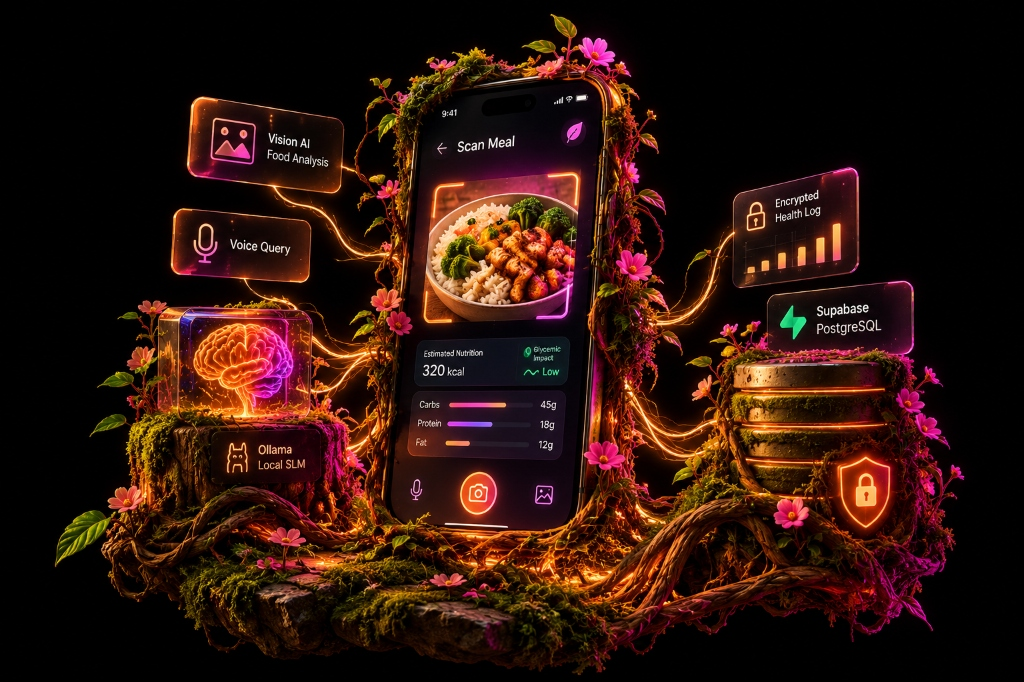
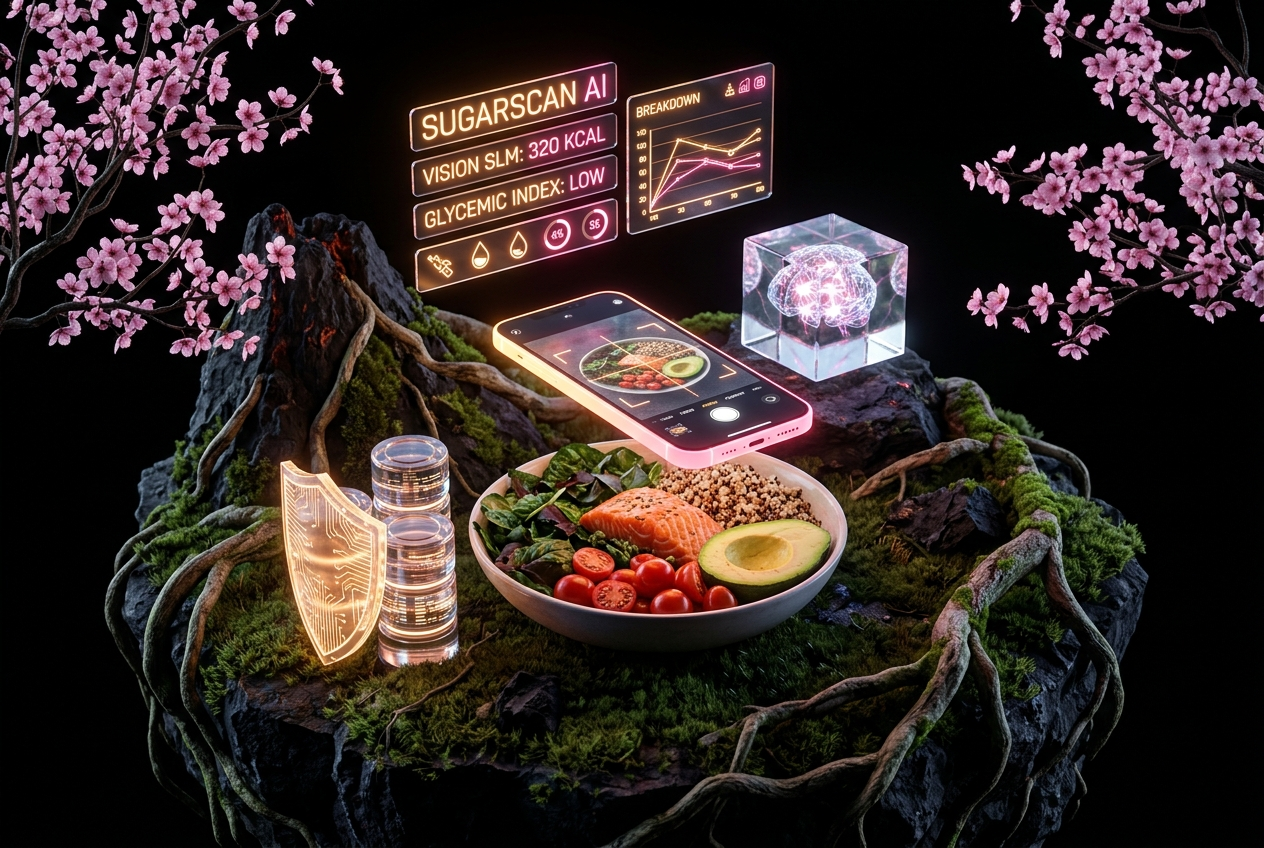
feat: implement seamless pipeline branch scroll animation and pure black floating island artwork

diff --git a/components/landing/work-section.tsx b/components/landing/work-section.tsx
@@ -571,6 +571,152 @@ export const projects: ProjectData[] = [
   }
 ];
 
+function ProjectBranchNode({
+  project,
+  index,
+  onSelect,
+}: {
+  project: ProjectData;
+  index: number;
+  onSelect: (p: ProjectData) => void;
+}) {
+  const [isRevealed, setIsRevealed] = useState(false);
+  const nodeRef = useRef<HTMLDivElement>(null);
+  const isLeft = index % 2 === 0;
+
+  useEffect(() => {
+    const observer = new IntersectionObserver(
+      ([entry]) => {
+        if (entry.isIntersecting) {
+          setIsRevealed(true);
+        }
+      },
+      { threshold: 0.12 }
+    );
+    if (nodeRef.current) observer.observe(nodeRef.current);
+    return () => observer.disconnect();
+  }, []);
+
+  return (
+    <div
+      ref={nodeRef}
+      className={`relative flex flex-col md:flex-row items-center w-full my-12 md:my-24 transition-all duration-1000 ${
+        isLeft ? "md:flex-row" : "md:flex-row-reverse"
+      }`}
+    >
+      {/* Central Pipeline Junction Node with Glowing Sakura Blossom Pulse */}
+      <div className="absolute left-6 md:left-1/2 -translate-x-1/2 z-20 flex items-center justify-center">
+        <div className={`relative flex items-center justify-center transition-all duration-700 ${
+          isRevealed ? "scale-100 opacity-100" : "scale-50 opacity-20"
+        }`}>
+          <div className="w-10 h-10 rounded-full bg-black border border-[#eca8d6]/50 flex items-center justify-center shadow-[0_0_20px_rgba(236,168,214,0.35)]">
+            <div className="w-3.5 h-3.5 rounded-full bg-[#eca8d6] animate-pulse" />
+          </div>
+          <span className="absolute -top-5 font-mono text-[9px] text-[#eca8d6] font-semibold tracking-wider bg-black px-1.5 border border-white/10 rounded-sm">
+            {project.number}
+          </span>
+        </div>
+      </div>
+
+      {/* Horizontal Branch Connecting Line (from trunk to project) */}
+      <div className={`hidden md:block absolute top-1/2 -translate-y-1/2 z-10 pointer-events-none transition-all duration-1000 ${
+        isLeft 
+          ? "left-1/2 w-28 origin-left" 
+          : "right-1/2 w-28 origin-right"
+      } ${isRevealed ? "opacity-100 scale-x-100" : "opacity-0 scale-x-0"}`}>
+        <svg className="w-full h-8 overflow-visible" viewBox="0 0 120 30" preserveAspectRatio="none">
+          <path
+            d={isLeft ? "M 0,15 L 45,15 L 60,5 L 85,25 L 120,15" : "M 120,15 L 75,15 L 60,5 L 35,25 L 0,15"}
+            fill="none"
+            stroke="#eca8d6"
+            strokeWidth="1.8"
+            strokeDasharray="4 3"
+          />
+          <circle cx={isLeft ? "120" : "0"} cy="15" r="2.5" fill="#eca8d6" />
+        </svg>
+      </div>
+
+      {/* Project Content — Seamless, NO BOX, Pure Black Floating Canvas */}
+      <div className={`w-full md:w-[calc(50%-4.5rem)] pl-16 md:pl-0 transition-all duration-1000 ${
+        isLeft ? "md:pr-10" : "md:pl-10"
+      } ${
+        isRevealed 
+          ? "opacity-100 translate-y-0" 
+          : "opacity-0 translate-y-16"
+      }`}>
+        <div className="flex flex-col lg:flex-row items-center gap-6 group">
+          {/* Floating 3D Artwork (Zero Box / Zero Border / Pure Black Floating Island) */}
+          <div className="relative w-full lg:w-3/5 aspect-[3/2] overflow-hidden rounded-lg bg-black flex-shrink-0">
+            <img
+              src={project.image}
+              alt={project.name}
+              className="w-full h-full object-contain object-center transition-all duration-700 ease-out group-hover:scale-105 group-hover:drop-shadow-[0_0_40px_rgba(236,168,214,0.35)]"
+              loading="lazy"
+            />
+            {/* Seamless edge blend so island melts into background */}
+            <div className="absolute inset-0 pointer-events-none bg-gradient-to-t from-black/60 via-transparent to-black/20" />
+          </div>
+
+          {/* Project Info (No Box, clean elegant typography) */}
+          <div className="flex-1 w-full text-left">
+            {/* Floating Pill Tag */}
+            <div className="flex items-center gap-2 mb-2">
+              <span className="px-2.5 py-0.5 rounded-full text-[9px] font-mono tracking-wider uppercase border border-[#eca8d6]/30 bg-black text-[#eca8d6]">
+                {project.number} // {project.statusBadge}
+              </span>
+              <span className="text-[10px] font-mono text-white/40 uppercase tracking-wider">
+                {project.categoryStatus.split("·")[1]?.trim() || "ENGINEERING"}
+              </span>
+            </div>
+
+            <h3 className="text-xl sm:text-2xl font-display text-white mb-2 group-hover:text-[#eca8d6] transition-colors">
+              {project.name}
+            </h3>
+
+            <p className="text-xs sm:text-[13px] text-white/60 leading-relaxed font-sans font-light mb-3">
+              {project.description}
+            </p>
+
+            {/* Tree-like zig-zag mini connector line */}
+            <div className="flex items-center gap-1 my-2 opacity-50 group-hover:opacity-90 transition-opacity">
+              <svg className="w-36 h-2 text-[#eca8d6]/50 overflow-visible" viewBox="0 0 160 8" preserveAspectRatio="none">
+                <path
+                  d="M 0,4 L 35,4 L 42,1 L 52,7 L 60,4 L 110,4 L 116,1 L 124,7 L 130,4 L 160,4"
+                  fill="none"
+                  stroke="currentColor"
+                  strokeWidth="1"
+                />
+                <circle cx="47" cy="4" r="1.5" fill="#eca8d6" />
+                <circle cx="120" cy="4" r="1.5" fill="#eca8d6" />
+              </svg>
+            </div>
+
+            {/* Tech stack badges */}
+            <div className="flex flex-wrap gap-1.5 mb-4">
+              {project.stack.map((t) => (
+                <span key={t} className="px-2 py-0.5 text-[9px] font-mono rounded bg-white/[0.04] border border-white/10 text-white/60">
+                  {t}
+                </span>
+              ))}
+            </div>
+
+            {/* Action CTA Button */}
+            <div>
+              <Button
+                onClick={() => onSelect(project)}
+                className="rounded-full font-mono text-xs px-4 py-1.5 bg-white text-black hover:bg-[#eca8d6] hover:text-black transition-all flex items-center gap-2 shadow-lg h-8"
+              >
+                <span>Explore Case Study</span>
+                <ChevronRight className="w-3 h-3" />
+              </Button>
+            </div>
+          </div>
+        </div>
+      </div>
+    </div>
+  );
+}
+
 export function WorkSection() {
   const [selectedProject, setSelectedProject] = useState<ProjectData | null>(null);
   const [activeFilter, setActiveFilter] = useState<string>("ALL");
@@ -598,70 +744,10 @@ export function WorkSection() {
 
   return (
     <section id="work" ref={sectionRef} className="relative py-28 lg:py-36 bg-black text-white overflow-hidden">
-      {/* Organic Tree-Branch & Zig-Zag Connecting Vector Network */}
-      <div className="absolute inset-0 pointer-events-none overflow-hidden select-none opacity-40">
-        <svg className="w-full h-full" xmlns="http://www.w3.org/2000/svg" preserveAspectRatio="none">
-          <defs>
-            <linearGradient id="treeRootGrad" x1="0%" y1="0%" x2="100%" y2="100%">
-              <stop offset="0%" stopColor="#eca8d6" stopOpacity="0.5" />
-              <stop offset="40%" stopColor="#f59e0b" stopOpacity="0.3" />
-              <stop offset="75%" stopColor="#eca8d6" stopOpacity="0.45" />
-              <stop offset="100%" stopColor="#eca8d6" stopOpacity="0.15" />
-            </linearGradient>
-            <filter id="sakuraGlow" x="-20%" y="-20%" width="140%" height="140%">
-              <feGaussianBlur stdDeviation="3.5" result="blur" />
-              <feComposite in="SourceGraphic" in2="blur" operator="over" />
-            </filter>
-          </defs>
-
-          {/* Tree Trunk & Main Branch - Weaving down behind the project cards */}
-          <path
-            d="M 40,60 Q 200,120 420,90 T 780,140 T 1140,110 T 1440,160"
-            fill="none"
-            stroke="url(#treeRootGrad)"
-            strokeWidth="1.6"
-            filter="url(#sakuraGlow)"
-          />
-
-          {/* Zig-Zag Branch 1: Connecting across Row 1 */}
-          <path
-            d="M 90,160 L 200,230 L 170,300 L 330,340 L 410,270 L 530,370 L 660,300 L 780,400 L 910,330 L 1040,420 L 1180,350 L 1340,440"
-            fill="none"
-            stroke="#eca8d6"
-            strokeOpacity="0.3"
-            strokeWidth="1.2"
-            strokeDasharray="4 4"
-          />
-
-          {/* Tree Root Branch 2: Mid-section connecting Row 1 & Row 2 */}
-          <path
-            d="M 0,440 Q 260,390 520,460 T 960,430 T 1440,490"
-            fill="none"
-            stroke="url(#treeRootGrad)"
-            strokeWidth="1.4"
-            strokeDasharray="6 3"
-          />
-
-          {/* Zig-Zag Branch 2: Connecting across Row 2 */}
-          <path
-            d="M 60,540 L 180,480 L 290,560 L 420,490 L 550,590 L 680,510 L 810,600 L 940,530 L 1070,610 L 1200,540 L 1380,630"
-            fill="none"
-            stroke="#eca8d6"
-            strokeOpacity="0.25"
-            strokeWidth="1.2"
-          />
-
-          {/* Tree Nodes & Glowing Cherry Blossom Buds at Junction Points */}
-          <circle cx="200" cy="230" r="3.5" fill="#eca8d6" className="animate-pulse" />
-          <circle cx="410" cy="270" r="3" fill="#f59e0b" />
-          <circle cx="530" cy="370" r="4" fill="#eca8d6" className="animate-pulse" />
-          <circle cx="780" cy="400" r="3.5" fill="#f59e0b" className="animate-pulse" />
-          <circle cx="1040" cy="420" r="4" fill="#eca8d6" />
-          <circle cx="290" cy="560" r="3.5" fill="#eca8d6" className="animate-pulse" />
-          <circle cx="680" cy="510" r="4" fill="#f59e0b" className="animate-pulse" />
-          <circle cx="940" cy="530" r="3.5" fill="#eca8d6" />
-          <circle cx="1200" cy="540" r="4" fill="#eca8d6" className="animate-pulse" />
-        </svg>
+      {/* Central Glowing Continuous Pipeline Trunk Stem */}
+      <div className="absolute left-6 md:left-1/2 top-48 bottom-32 w-px -translate-x-1/2 pointer-events-none z-10">
+        <div className="w-full h-full bg-gradient-to-b from-transparent via-[#eca8d6]/50 to-transparent" />
+        <div className="absolute inset-0 w-2 -left-[3px] bg-gradient-to-b from-transparent via-[#eca8d6]/25 to-transparent blur-[3px]" />
       </div>
 
       <div className="relative z-10 max-w-[1400px] mx-auto px-6 lg:px-12">
@@ -697,97 +783,15 @@ export function WorkSection() {
           </div>
         </div>
 
-        {/* Project Cards Grid - Uniform Identical Sizing across all 7 projects */}
-        <div className="grid grid-cols-1 sm:grid-cols-2 lg:grid-cols-4 gap-4 xl:gap-5">
+        {/* Project Pipeline Tree Branches */}
+        <div className="relative flex flex-col items-center w-full">
           {filteredProjects.map((project, index) => (
-            <div
+            <ProjectBranchNode
               key={project.id}
-              className={`group relative rounded-sm border border-white/[0.09] bg-[#0c0c0e]/95 backdrop-blur-sm overflow-hidden hover:border-[#eca8d6]/40 hover:shadow-[0_8px_30px_rgba(236,168,214,0.12)] transition-all duration-300 flex flex-col justify-between col-span-1 ${
-                isVisible ? "opacity-100 translate-y-0" : "opacity-0 translate-y-8"
-              }`}
-              style={{ transitionDelay: `${index * 80}ms` }}
-            >
-              {/* Light Black Canvas Frame */}
-              <div className="p-2 pb-0">
-                <div className="relative w-full aspect-[16/10] overflow-hidden rounded-sm bg-[#121216] border border-white/[0.08] group-hover:border-white/[0.18] transition-colors">
-                  <img
-                    src={project.image}
-                    alt={project.name}
-                    className="w-full h-full object-cover object-center group-hover:scale-105 transition-transform duration-700 ease-out"
-                    loading="lazy"
-                  />
-                  {/* Subtle edge atmospheric gradient */}
-                  <div className="absolute inset-0 bg-gradient-to-t from-black/85 via-black/20 to-transparent pointer-events-none" />
-                  
-                  {/* Floating Number & Status Badge */}
-                  <div className="absolute top-2 left-2 flex items-center gap-1.5">
-                    <span className="px-2 py-0.5 rounded-sm text-[8px] font-mono tracking-wider uppercase bg-black/85 backdrop-blur-md border border-white/15 text-white">
-                      <span className="text-[#eca8d6] font-semibold mr-1">{project.number}</span>
-                      <span className="text-white/60">// {project.statusBadge}</span>
-                    </span>
-                  </div>
-
-                  {/* Canvas Registration Crosshair Corner Marks */}
-                  <div className="absolute top-1.5 right-2 text-white/30 text-[9px] font-mono pointer-events-none select-none">
-                    +
-                  </div>
-                  <div className="absolute bottom-1.5 right-2 text-white/30 text-[9px] font-mono pointer-events-none select-none">
-                    +
-                  </div>
-                </div>
-              </div>
-
-              {/* Content Area - 75% Streamlined Typography with Tree-like Zig-Zag line */}
-              <div className="p-3 sm:p-3.5 flex-1 flex flex-col justify-between">
-                <div>
-                  <h3 className="text-sm sm:text-base font-display text-white mb-1 group-hover:text-[#eca8d6] transition-colors duration-200">
-                    {project.name}
-                  </h3>
-
-                  {/* Concise 1-line description */}
-                  <p className="text-[11px] text-white/60 leading-snug font-sans font-light mb-2 line-clamp-2">
-                    {project.description}
-                  </p>
-
-                  {/* Tree-like zig-zag connecting line */}
-                  <div className="flex items-center gap-1 my-2 opacity-50 group-hover:opacity-90 transition-opacity">
-                    <svg className="w-full h-2 text-[#eca8d6]/50 overflow-visible" viewBox="0 0 160 8" preserveAspectRatio="none">
-                      <path
-                        d="M 0,4 L 35,4 L 42,1 L 52,7 L 60,4 L 110,4 L 116,1 L 124,7 L 130,4 L 160,4"
-                        fill="none"
-                        stroke="currentColor"
-                        strokeWidth="1"
-                      />
-                      <circle cx="47" cy="4" r="1.5" fill="#eca8d6" />
-                      <circle cx="120" cy="4" r="1.5" fill="#eca8d6" />
-                    </svg>
-                  </div>
-
-                  {/* Minimal Tech Badges */}
-                  <div className="flex flex-wrap gap-1 mb-2">
-                    {project.stack.slice(0, 3).map((t) => (
-                      <span key={t} className="px-1.5 py-0.5 text-[8px] font-mono rounded-sm bg-white/[0.03] border border-white/[0.08] text-white/50">
-                        {t}
-                      </span>
-                    ))}
-                  </div>
-                </div>
-
-                {/* Bottom Action CTA */}
-                <div className="pt-2 border-t border-white/[0.06] flex items-center justify-between">
-                  <span className="text-[9px] font-mono text-white/40 uppercase tracking-wider">
-                    {project.categoryStatus.split("·")[1]?.trim() || "ENGINEERING"}
-                  </span>
-                  <Button
-                    onClick={() => setSelectedProject(project)}
-                    className="rounded-sm font-mono text-[10px] px-2.5 py-0.5 bg-white text-black hover:bg-white/90 transition-all flex items-center gap-1 h-6"
-                  >
-                    <span>Case Study</span>
-                    <ChevronRight className="w-2.5 h-2.5" />
-                  </Button>
-                </div>
-              </div>
-            </div>
+              project={project}
+              index={index}
+              onSelect={setSelectedProject}
+            />
           ))}
         </div>
       </div>
